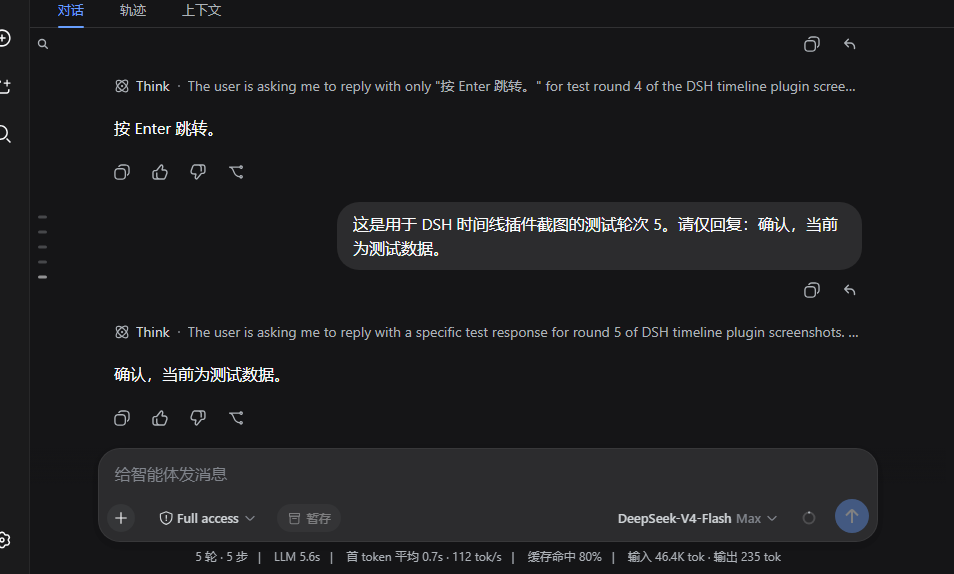
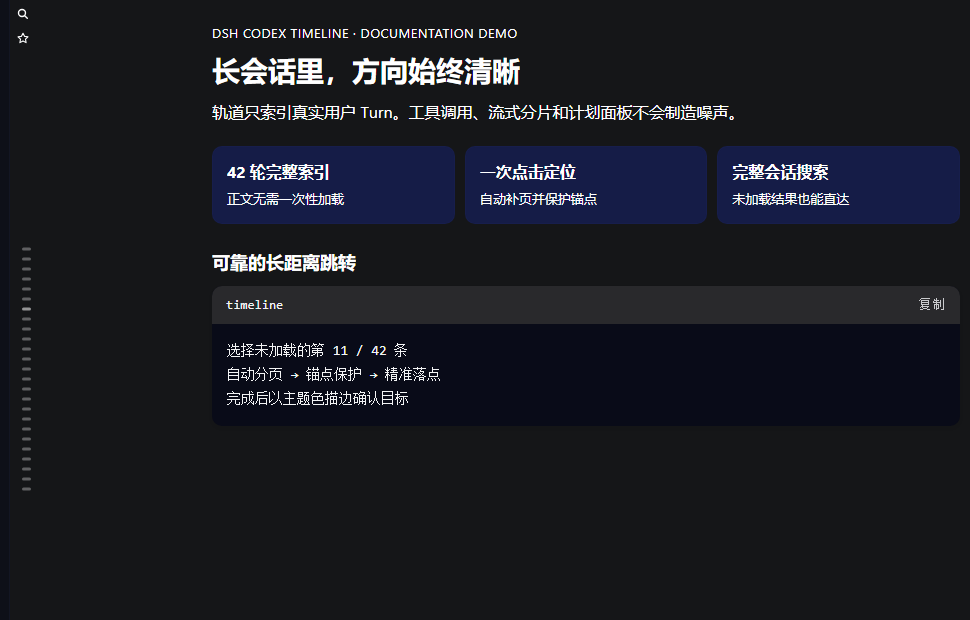
docs: refresh 0.5.0 readme and screenshots

diff --git a/README.en.md b/README.en.md
@@ -3,49 +3,49 @@
 English | [中文](README.md)
 
 <p align="center">
-  <img src="https://raw.githubusercontent.com/Wine-Red/dsh-codex-timeline/v0.2.0/docs/images/cover.png" width="960" alt="DSH Codex Timeline cover showing the turn rail, preview, and search" />
+  <img src="https://raw.githubusercontent.com/Wine-Red/dsh-codex-timeline/main/docs/images/cover.png" width="960" alt="DSH Codex Timeline cover showing the turn rail, preview, and search" />
 </p>
 
 [![CI](https://github.com/Wine-Red/dsh-codex-timeline/actions/workflows/ci.yml/badge.svg)](https://github.com/Wine-Red/dsh-codex-timeline/actions/workflows/ci.yml)
 [![npm](https://img.shields.io/npm/v/dsh-codex-timeline.svg)](https://www.npmjs.com/package/dsh-codex-timeline)
 [![license](https://img.shields.io/github/license/Wine-Red/dsh-codex-timeline.svg)](LICENSE)
 
-A subtle user-Turn navigation rail for the active DeepSeek Harness Web Chat transcript. It defaults to the left edge and can be mirrored to the right in settings; it highlights the Turn at the reading position, jumps between prompts, and browses the complete history index and previews.
+A subtle user-Turn navigation rail for long DeepSeek Harness Web conversations. It marks only the prompts that actually steer the session, then adds a complete history index, previews, search, and reliable jumps beside the transcript. It defaults to the left and can be mirrored completely to the right.
+
+## What's new in 0.5.0
+
+- **One selection really lands**: an unloaded Turn automatically chains the required history pages, protects the reading anchor, and verifies the final position.
+- **Edge guides are real targets**: both graded levels support hover previews, click, keyboard input, and the neighboring wave instead of acting as decoration.
+- **Motion shows direction without wasting time**: nearby targets scroll smoothly; distant targets arrive immediately and finish with a 180ms directional settle. Rapid wheel input retargets the current animation.
+- **A cleaner, dependable surface**: the redundant desktop paging ellipsis is gone, and preview cards stay above transcript tables and sticky code blocks.
 
 ## Interface tour
 
-The rail stays quiet by default: each loaded user Turn is one short dash, and only the current reading position is highlighted. On hover, nearby markers expand into a stepped shape for accurate selection, then return to their compact state when the pointer leaves.
+The two captures below come from the real browser surface of DSH `0.1.1-rc.2` and plugin `0.5.0`. To protect local conversations, the transcript, preview, metrics, and search semantics were replaced in the capture browser with dedicated documentation copy. A neutral dark surface removes any unrelated appearance plugin from the result.
+
+### Default: complete, but quiet
+
+The main index and both edge-guide levels remain low-contrast static dashes until activated. Search and favorites stay pinned above the track without reducing transcript width.
 
 <p align="center">
-  <img src="https://raw.githubusercontent.com/Wine-Red/dsh-codex-timeline/v0.2.0/docs/images/feature-preview.en.svg" width="960" alt="Turn preview and local search shown with test copy" />
+  <img src="https://raw.githubusercontent.com/Wine-Red/dsh-codex-timeline/main/docs/images/timeline-default-dsh.png" width="960" alt="The compact 0.5.0 timeline in DSH 0.1.1-rc.2, with search, favorites, and the complete static index" />
 </p>
 
-> Every prompt, answer, metric, and search result in the illustration and DSH captures below is dedicated test copy. No real conversation content is used.
+### Hover: preview, wave, and explicit depth
 
-Both images below were captured from DSH `0.1.0-rc.6` with this plugin installed. They show the same real rail in its compact and pointer-hover states:
+The selected marker expands to 39px while its three neighbors form a 30 / 21 / 15px wave. The preview exposes position, status, performance metrics, two prompt lines, and two answer lines, and remains above sticky transcript surfaces.
 
-<table>
-  <tr>
-    <th>Compact</th>
-    <th>Hover expansion</th>
-  </tr>
-  <tr>
-    <td align="center"><img src="https://raw.githubusercontent.com/Wine-Red/dsh-codex-timeline/v0.2.0/docs/images/timeline-default-dsh.png" width="460" alt="Compact Turn rail captured from DSH" /></td>
-    <td align="center"><img src="https://raw.githubusercontent.com/Wine-Red/dsh-codex-timeline/v0.2.0/docs/images/timeline-hover-dsh.png" width="460" alt="Hover-expanded Turn rail and test preview captured from DSH" /></td>
-  </tr>
-  <tr>
-    <td>Low contrast without reducing transcript width</td>
-    <td>Pointer-following highlight that restores the current Turn on leave</td>
-  </tr>
-</table>
-
-The feature illustration summarizes the real interaction: hovering reveals Turn position, status, duration, TTFT, throughput, prompt, and model-answer context. Search shows each keyword in context and jumps directly to the matching Turn.
+<p align="center">
+  <img src="https://raw.githubusercontent.com/Wine-Red/dsh-codex-timeline/main/docs/images/timeline-hover-dsh.png" width="960" alt="The hover-expanded 0.5.0 timeline in DSH 0.1.1-rc.2, showing the graded wave and top-layer preview" />
+</p>
 
 ### Typical flow
 
 1. Scroll the transcript and let the rail track the current Turn.
 2. Hover for two prompt lines and two answer lines; click or press Enter / Space to jump.
-3. The rail starts with the latest N Turns (25 by default, adjustable under Settings → Plugins → Plugin configuration) and can be moved to the right. Hovering reveals up to two graded markers outside each scrollable edge; they also support previews, click-to-jump, and the neighboring wave. Every mouse-wheel notch moves exactly one Turn with a short directional slide, without moving or resizing the rail.
+3. Select an unloaded Turn once. The plugin materializes only the required history, restores the reading anchor, and completes the jump.
+4. Wheel over the rail to move exactly one Turn per notch. At either boundary, scrolling returns naturally to the transcript.
+5. Use search, favorites, keyboard navigation, or settings for the visible Turn count and rail side when needed.
 
 ## Compatibility
 
@@ -104,19 +104,36 @@ Restart DSH Web to return to the built-in Conversation UI.
 
 ## Features
 
-- Creates one marker only for a real user Turn. Tool calls, approval UI, plan UI, subagents, and assistant streaming chunks do not create noisy markers.
-- Tracks the current viewport Turn without pulling a reader back to the bottom while output streams.
-- Expands nearby short bars into a stepped shape on hover and temporarily follows the pointer; leaving restores the viewport highlight.
-- Shows item x/y, time, status, two prompt lines, two model-answer lines, and real Turn duration, TTFT, and tok/s when available.
-- Supports click, Enter, and Space. Nearby materialized targets use a short smooth scroll; distant or paged jumps place the viewport at most 88px before the target and ease out over 180ms, preserving direction without flying through dozens of screens. Reduced-motion jumps remain immediate. The landing is verified and corrected after layout settles, then confirmed by an 800ms theme-aware target outline. Wheel, touch, or pointer input immediately hands control back to the reader and cancels stale motion. Arrow keys move one Turn, Page Up / Page Down move one window, and Home / End reach either boundary, with `focus-visible` and `prefers-reduced-motion` support.
-- Selecting an unloaded marker or complete-session search result automatically reuses the official DSH history loader. Before each prepend it records the first visible semantic row and exact pixel offset, keeps that anchor current if the reader moves during loading, and restores it during layout so the transcript does not jump or drift. The desktop rail no longer duplicates this path with a manual paging button.
-- The desktop rail uses a fixed window over the complete session index (the latest 25 Turns by default, adjustable from 5–50 without materializing transcript content). Hovering or focusing the track reveals up to two complete markers outside each scrollable edge; length, weight, and opacity distinguish near from far previews. These edge markers are interactive rather than decorative: they share the main markers' preview, click, Enter / Space, and arrow-key behavior, and activation joins them to the main rail through the same 39 / 30 / 21 / 15px wave. When inactive, they retain the existing 7px / 5px two-level faded appearance. Every coarse wheel notch moves exactly one Turn and slides the window and edge markers by one pitch in that direction; rapid bursts use a shorter transition that retargets from the current intermediate frame instead of snapping or queueing motion, while fine trackpad input accumulates before stepping. The rail's absolute position and full-marker count stay unchanged, and reduced-motion mode disables both slide and width transitions. At either boundary, scrolling naturally returns to the transcript; Ctrl/Command-wheel zoom and horizontal gestures are left untouched. Unloaded Turns come from the complete Host `lite=1` index and expose the same two-line hover summary. A click serially loads official history pages, shows lightweight page progress only after 300ms, and stops as soon as it lands or paging is confirmed stalled.
-- The rail defaults to the left. Enabling **Show on right** mirrors the desktop rail, stepped markers, preview cards, search panel, and narrow-screen trigger. Every popup opens inward toward the transcript, while a right-edge safety gap keeps the DSH scrollbar and native details resize boundary available instead of covering the Host panel.
-- Searches materialized transcript text locally and the complete persisted session log through the same-origin Host route `/codex-timeline/search`, merging both result sets with highlighted keyword context. An unloaded hit uses the same anchor-preserving, cancellable, verified paged jump. Deployments without a `sessionQuery` service degrade to loaded-content-only search.
-- Shows the timeline even for one or two user messages (it hides only when nothing is loaded and no earlier history exists), so navigation and search work from the first message.
-- Collapses on narrow screens without covering the composer or reducing message readability.
-- The settings page (Settings → Plugins → Plugin configuration) offers **Enable** and **Show on right** toggles plus four sliders (edge offset, center offset, marker spacing, turns shown); every preference is written through to the DSH settings document (settings.yaml) immediately and survives reloads and browser switches.
-- The collapsed-rail opener and search control stay anchored on the selected side; the edge-offset slider moves only the marker column inward toward the transcript.
+### Complete-session index
+
+- Creates markers only for real user Turns. Tool calls, approval UI, plan UI, subagents, and assistant streaming chunks do not add noise.
+- The Host `lite=1` index covers the complete persisted session without the former 500-Turn truncation, while transcript content remains on demand.
+- The desktop rail uses a fixed window (the latest 25 Turns by default, adjustable from 5–50) plus two complete guide levels at each scrollable edge.
+- Main and edge markers all support previews, click, Enter / Space, and arrow keys. Their inactive 7px / 5px guide lengths preserve the existing quiet appearance.
+- Each coarse wheel notch moves exactly one Turn. Bursts retarget the current intermediate frame, fine trackpad input accumulates, and boundary input returns to the transcript.
+
+### Reliable jumps
+
+- Nearby materialized targets scroll smoothly. Distant targets arrive at most 88px before the destination, then finish with a 180ms ease-out.
+- Unloaded markers and complete-session search results share DSH's official history loader. Paging is single-flight, with lightweight page progress appearing only after 300ms.
+- Before each prepend, the plugin captures the first visible semantic row and exact pixel offset. If the reader moves during loading, that anchor follows the reader and is restored after layout.
+- Landing is verified and corrected to within 2px, then confirmed by an 800ms theme-aware outline. Wheel, touch, or a new selection immediately cancels stale work.
+- Progress combines Chat order, the first materialized node, and registered DOM-anchor growth, avoiding false stalls when the Host projection Map stays stable.
+
+### Preview, search, and favorites
+
+- The preview shows item x/y, time, status, two prompt lines, two answer lines, and real Turn duration, TTFT, and tok/s when available.
+- Preview and branch/favorite actions stay above sticky transcript surfaces instead of being covered by code-block banners.
+- Search merges materialized transcript text with the complete persisted session log and highlights keyword context. An unloaded result is still a one-selection jump.
+- Deployments without a `sessionQuery` service degrade to loaded-content-only search without affecting timeline navigation.
+
+### Layout, keyboard, and settings
+
+- The active marker follows the viewport without dragging a reader back to the bottom while output streams. The rail also appears for one- and two-message sessions.
+- Arrow keys move one Turn, Page Up / Page Down move one window, and Home / End reach either boundary, with `focus-visible` and `prefers-reduced-motion` support.
+- **Show on right** mirrors the rail, edge guides, previews, search panel, and narrow-screen trigger while preserving the scrollbar and details resize boundary.
+- Narrow screens use a collapsed entry point. Desktop no longer duplicates automatic paging with a manual ellipsis.
+- Settings expose enable, side, edge offset, center offset, marker spacing, and Turns shown; preferences are persisted immediately to `settings.yaml`.
 
 ## Privacy
 
@@ -133,11 +150,11 @@ pnpm pack --pack-destination artifacts
 Validate a local tarball against a profile:
 
 ```powershell
-dsh plugin --profile web add ".\artifacts\dsh-codex-timeline-0.2.0.tgz"
+dsh plugin --profile web add ".\artifacts\dsh-codex-timeline-0.5.0.tgz"
 dsh --profile web --dump-config
 ```
 
-`lib/client.js` is the SHA-256-pinned compatibility artifact generated for rc.6. `scripts/prepare-dist.mjs` only normalizes package identity and local build paths; `scripts/verify-dist.mjs` checks its slot, observer, interaction, and hash contracts. `src/navigation-model.mjs` retains independently testable Turn projection and search logic. See [NOTICE](NOTICE) for upstream attribution.
+`lib/client.js` is the SHA-256-pinned compatibility artifact generated for DSH `0.1.1-rc.2`. `scripts/prepare-dist.mjs` only normalizes package identity and local build paths; `scripts/verify-dist.mjs` checks its slot, observer, interaction, and hash contracts. `src/navigation-model.mjs` retains independently testable Turn projection, rail-window, jump-policy, and search logic. See [NOTICE](NOTICE) for upstream attribution.
 
 ## Upgrade audit
 
@@ -163,4 +180,4 @@ If a capability changes, publish a separately verified adapter. Do not let this 
 
 ## License
 
-[MIT](LICENSE). The package contains an rc.6 compatibility adapter built from MIT-licensed DeepSeek Harness sources; see [NOTICE](NOTICE).
+[MIT](LICENSE). The package contains a `0.1.1-rc.2` compatibility adapter built from MIT-licensed DeepSeek Harness sources; see [NOTICE](NOTICE).

diff --git a/README.md b/README.md
@@ -3,49 +3,49 @@
 [English](README.en.md) | 中文
 
 <p align="center">
-  <img src="https://raw.githubusercontent.com/Wine-Red/dsh-codex-timeline/v0.2.0/docs/images/cover.png" width="960" alt="DSH Codex Timeline 封面：对话左侧的轮次轨道、预览和搜索" />
+  <img src="https://raw.githubusercontent.com/Wine-Red/dsh-codex-timeline/main/docs/images/cover.png" width="960" alt="DSH Codex Timeline 封面：对话左侧的轮次轨道、预览和搜索" />
 </p>
 
 [![CI](https://github.com/Wine-Red/dsh-codex-timeline/actions/workflows/ci.yml/badge.svg)](https://github.com/Wine-Red/dsh-codex-timeline/actions/workflows/ci.yml)
 [![npm](https://img.shields.io/npm/v/dsh-codex-timeline.svg)](https://www.npmjs.com/package/dsh-codex-timeline)
 [![license](https://img.shields.io/github/license/Wine-Red/dsh-codex-timeline.svg)](LICENSE)
 
-为 DeepSeek Harness Web 长会话提供一个低干扰的用户 Turn 导航轨道。它默认贴在 Chat 正文左侧，也可在设置中镜像到右侧；它只标记用户发起的轮次，能随正文滚动高亮、快速跳转，并浏览完整历史轮次与预览。
+为 DeepSeek Harness Web 长会话提供一个低干扰的用户 Turn 导航轨道。它只标记真正改变会话方向的用户轮次，在正文旁提供完整历史索引、预览、搜索和可靠跳转；默认位于左侧，也可以完整镜像到右侧。
+
+## 0.5.0 更新重点
+
+- **一次选择即可定位**：点击未加载轮次会自动连续补页、保护阅读锚点并校验最终落点，不再需要反复点击。
+- **边缘索引也是真实入口**：窗口外的两级视觉指引支持悬停预览、点击、键盘操作和邻近波动，不再只是装饰。
+- **动效有方向但不拖沓**：近距离平滑滚动，远距离快速抵达后用 180ms 收尾；滚轮连续操作可以从动画中途重新定向。
+- **更干净、更可靠的浮层**：桌面端移除重复的手动补页省略号；预览卡始终位于正文、表格和 sticky 代码块之上。
 
 ## 界面预览
 
-轨道默认保持安静：每个已加载的用户 Turn 对应一条短横，只有当前阅读位置高亮。鼠标移入后，附近标记以阶梯状展开，便于准确选择；移出后立即恢复紧凑状态。
+下面两图来自 DSH `0.1.1-rc.2` 与本插件 `0.5.0` 的真实浏览器界面。为避免暴露本地会话，正文、预览、指标和搜索语义均在截图浏览器中替换为专用测试文案；中性深色底仅用于排除其他外观插件的影响。
+
+### 默认：完整但安静
+
+未激活时，主索引与两级边缘指引保持低对比度静态短横；搜索和收藏固定在轨道顶部，不挤占正文宽度。
 
 <p align="center">
-  <img src="https://raw.githubusercontent.com/Wine-Red/dsh-codex-timeline/v0.2.0/docs/images/feature-preview.zh.svg" width="960" alt="使用测试文案展示轮次预览和本地搜索" />
+  <img src="https://raw.githubusercontent.com/Wine-Red/dsh-codex-timeline/main/docs/images/timeline-default-dsh.png" width="960" alt="DSH 0.1.1-rc.2 中的 0.5.0 默认时间线：搜索、收藏和完整静态索引" />
 </p>
 
-> 功能示意图与下方 DSH 实机截图中的提问、回答、指标和搜索结果均为专用测试文案，不包含真实会话内容。
+### 悬停：预览、波动与明确层级
 
-下方两图截取自安装本插件的 DSH `0.1.0-rc.6`，展示同一条真实轨道在默认和鼠标悬停时的状态：
+选中标记扩展为 39px，邻近三条依次形成 30 / 21 / 15px 波动；预览显示轮次、状态、性能指标、两行提问与两行回答，并保持在代码块等正文表面之上。
 
-<table>
-  <tr>
-    <th>默认状态</th>
-    <th>悬停展开</th>
-  </tr>
-  <tr>
-    <td align="center"><img src="https://raw.githubusercontent.com/Wine-Red/dsh-codex-timeline/v0.2.0/docs/images/timeline-default-dsh.png" width="460" alt="DSH 实机中的默认短横轮次轨道" /></td>
-    <td align="center"><img src="https://raw.githubusercontent.com/Wine-Red/dsh-codex-timeline/v0.2.0/docs/images/timeline-hover-dsh.png" width="460" alt="DSH 实机中悬停展开并显示测试预览的轮次轨道" /></td>
-  </tr>
-  <tr>
-    <td>低对比度，不占用正文宽度</td>
-    <td>高亮跟随指针，离开后恢复当前 Turn</td>
-  </tr>
-</table>
-
-功能图中的预览卡片对应实际交互：悬停可查看轮次、状态、耗时、首 token 时间、速度、提问与模型回答；搜索入口会直接展示关键词及其前后文，并可跳转到对应 Turn。
+<p align="center">
+  <img src="https://raw.githubusercontent.com/Wine-Red/dsh-codex-timeline/main/docs/images/timeline-hover-dsh.png" width="960" alt="DSH 0.1.1-rc.2 中的 0.5.0 悬停时间线：分级波动和顶层预览卡" />
+</p>
 
 ### 使用路径
 
 1. 滚动正文，轨道自动指示当前 Turn。
 2. 悬停查看两行提问与两行回答，点击或按 Enter / Space 跳转。
-3. 轨道默认列出最近 N 轮（默认 25，可在设置 → 插件 → 插件配置中调整），并可切换到右侧；将鼠标移入轨道会在可滚方向的边缘外看到最多两条分级索引，它们同样支持悬停预览、点击跳转和邻近波动。滚轮每格移动一轮，并以短距离位移动画呈现方向，轨道位置和完整显示条数始终不变。
+3. 对未加载的轮次直接点击一次；插件会自动补齐所需历史、恢复阅读锚点并完成定位。
+4. 在轨道上滚轮每格移动一轮；到达首尾后，滚动会自然交还正文。
+5. 需要时使用搜索、收藏、键盘导航，或在设置中调整显示轮数与左右位置。
 
 ## 兼容性
 
@@ -104,19 +104,36 @@ powershell -ExecutionPolicy Bypass -File .\uninstall.ps1
 
 ## 功能
 
-- 只为真实用户 Turn 建立标记；工具调用、计划确认、追问 UI、子代理和流式 assistant chunk 不增加噪声标记。
-- 当前项随 viewport 更新；用户向上阅读时，流式内容不会强制拉回底部。
-- 鼠标悬停时标记以短横阶梯展开并临时高亮；离开后恢复正文当前 Turn。
-- 浮层显示“第 x / y 条”、时间、状态、两行用户提问、两行模型回答，以及数据可得时的本轮用时、首 token 延迟和 tok/s。
-- 点击、Enter 或 Space 跳转；已在附近的目标使用短距离平滑滚动，远距离或补页后的目标会先快速抵达前方最多 88px，再用 180ms ease-out 完成收尾，避免跨几十屏“飞过”正文，也避免毫无方向感的硬切。减少动态效果模式仍会直接精准落点。到位后会校验并微调位置，再用 800ms 主题色描边确认目标；用户滚轮、触摸或指针操作会立即接管并取消旧跳转。方向键每次移动一轮，Page Up / Page Down 移动一屏，Home / End 到达首尾；支持 `focus-visible` 与 `prefers-reduced-motion`。
-- 点击未加载索引或完整会话搜索结果时，会自动复用 DSH 正式分页流程加载更早历史；每次 prepend 前保存首个可见消息的稳定锚点及像素偏移，加载期间若用户继续阅读会同步更新，DOM 提交后在 layout 阶段恢复，因此正文不会抖动或漂移。桌面轨道不再重复提供手动补页按钮。
-- 桌面轨道以固定窗口显示会话索引（默认最近 25 轮，可在设置中调整 5–50；无需加载正文）：悬停或键盘聚焦轨道时，每个可滚方向在窗口外显示最多两条完整索引，以长度、粗细和透明度形成由近及远的层级。这些边缘索引不是装饰：它们拥有与主索引相同的预览、点击、Enter / Space 和方向键能力，激活时以 39 / 30 / 21 / 15px 阶梯波动自然连接到主索引；未激活时仍保持原来的 7px / 5px 两级淡化静态样式。鼠标滚轮每格精确移动一轮，窗口与边缘索引沿方向平移一个间距；快速连续滚动会缩短过渡并从当前中间帧平滑转向新位置，避免停顿或动画排队，触控板小幅滚动则会先累积。轨道的绝对位置与完整标记数量均不改变，减少动态效果模式会关闭位移和宽度动画。到达首尾后滚动会自然交还正文，Ctrl/Command + 滚轮缩放和横向手势不会被拦截。未加载轮次由宿主 `lite=1` 全量索引提供，悬停同样显示两行摘要；点击会单路链式加载官方历史分页，超过 300ms 才显示轻量页数进度，定位完成或确认无进展后立即停止。
-- 轨道默认位于左侧；开启“显示在右侧”后，桌面轨道、阶梯标记、预览卡片、搜索面板和窄屏入口会完整镜像。所有浮层都朝正文内侧展开，右缘会避开 DSH 滚动条与原生详情栏拖拽边界，不覆盖右侧宿主面板。
-- 搜索按钮在浏览器本地检索已加载正文，同时通过宿主 `/codex-timeline/search` 路由检索完整持久化会话日志，合并展示并高亮关键词上下文；未加载的命中复用同一套带锚点保护、可取消、可验证的分页跳转。部署未挂载 `sessionQuery` 服务时自动退回仅已加载内容搜索。
-- 即使只有一两条用户消息也始终显示时间线（仅在没有任何已加载消息且无更早历史时隐藏），便于从小会话开始即使用导航与搜索。
-- 窄屏使用折叠入口，不遮挡消息、输入框或正文宽度。
-- 设置页（设置 → 插件 → 插件配置）提供启用、显示在右侧两个开关和四个滑块（距边缘距离、向中部偏移、标记间距、显示轮次数量）；所有偏好即时写入 DSH settings（settings.yaml），刷新、换浏览器均保持。
-- 折叠入口与搜索控件固定在所选一侧；距边缘滑块只把标记列向正文内侧移动，不改变控件位置。
+### 完整会话索引
+
+- 只为真实用户 Turn 建立标记；工具调用、计划确认、追问 UI、子代理和流式 assistant chunk 不增加噪声。
+- 宿主 `lite=1` 索引覆盖完整持久化会话，不再截断 500 轮；正文仍只按需加载。
+- 桌面轨道显示固定窗口（默认最近 25 轮，可调 5–50），每个可滚方向额外保留两级完整边缘指引。
+- 主索引与边缘指引都支持预览、点击、Enter / Space 和方向键；未激活时保持 7px / 5px 的低干扰静态样式。
+- 鼠标滚轮每格精确移动一轮；连续滚动会从当前动画中间帧重新定向，触控板小幅输入会先累积，到达边界后把滚动交还正文。
+
+### 可靠跳转
+
+- 已加载且距离较近的目标使用短距离平滑滚动；远距离目标先快速抵达前方最多 88px，再以 180ms ease-out 收尾。
+- 未加载索引和完整会话搜索结果共用 DSH 正式分页流程；整个过程单路执行，超过 300ms 才显示轻量页数进度。
+- 每次 prepend 前记录首个可见语义行和像素偏移；加载期间如果继续阅读，锚点会随用户更新，DOM 提交后再恢复。
+- 到位后校验并微调到 2px 内，以 800ms 主题色描边确认目标；滚轮、触摸或新选择会立即取消旧跳转。
+- 分页以 Chat 顺序、首节点和已注册 DOM 锚点共同判断进展，避免宿主投影 Map 不增长时误判停滞。
+
+### 预览、搜索与收藏
+
+- 预览卡显示“第 x / y 条”、时间、状态、两行提问、两行回答，以及可用时的本轮用时、首 token 延迟和 tok/s。
+- 预览卡和其中的分支、收藏操作保持在正文 sticky 表面之上，不会再被代码块标题遮挡。
+- 搜索同时覆盖已加载正文与完整持久化会话日志，合并并高亮关键词上下文；未加载命中也能一次选择直达。
+- 部署未挂载 `sessionQuery` 服务时自动退回仅搜索已加载内容，不影响时间线导航。
+
+### 布局、键盘与设置
+
+- 当前项随 viewport 更新；用户向上阅读时，流式内容不会强制拉回底部。即使只有一两条用户消息也会显示时间线。
+- 方向键移动一轮，Page Up / Page Down 移动一屏，Home / End 到达首尾；支持 `focus-visible` 和 `prefers-reduced-motion`。
+- 开启“显示在右侧”后，轨道、边缘指引、预览、搜索面板和窄屏入口完整镜像，并避开滚动条与详情栏拖拽边界。
+- 窄屏使用折叠入口；桌面端不再显示重复的手动补页省略号，点击未加载索引时自动补页。
+- 设置页提供启用、显示在右侧，以及距边缘距离、向中部偏移、标记间距、显示轮次数量；偏好即时写入 `settings.yaml`。
 
 ## 隐私
 
@@ -133,11 +150,11 @@ pnpm pack --pack-destination artifacts
 安装本地 tarball做 profile 契约验证：
 
 ```powershell
-dsh plugin --profile web add ".\artifacts\dsh-codex-timeline-0.2.0.tgz"
+dsh plugin --profile web add ".\artifacts\dsh-codex-timeline-0.5.0.tgz"
 dsh --profile web --dump-config
 ```
 
-`lib/client.js` 是为 rc.6 生成并锁定 SHA-256 的 compatibility artifact；`scripts/prepare-dist.mjs` 只做包名与构建路径标准化，`scripts/verify-dist.mjs` 检查其 slot、observer、交互与哈希契约。`src/navigation-model.mjs` 保留可独立测试的 Turn 投影与搜索逻辑。上游衍生代码的许可见 [NOTICE](NOTICE)。
+`lib/client.js` 是为 DSH `0.1.1-rc.2` 生成并锁定 SHA-256 的 compatibility artifact；`scripts/prepare-dist.mjs` 只做包名与构建路径标准化，`scripts/verify-dist.mjs` 检查其 slot、observer、交互与哈希契约。`src/navigation-model.mjs` 保留可独立测试的 Turn 投影、轨道窗口、跳转策略与搜索逻辑。上游衍生代码的许可见 [NOTICE](NOTICE)。
 
 ## 升级检查
 
@@ -163,4 +180,4 @@ pnpm run test
 
 ## 许可证
 
-[MIT](LICENSE)。本包含有基于 DeepSeek Harness MIT 源码构建的 rc.6 compatibility adapter，详见 [NOTICE](NOTICE)。
+[MIT](LICENSE)。本包包含基于 DeepSeek Harness MIT 源码构建的 `0.1.1-rc.2` compatibility adapter，详见 [NOTICE](NOTICE)。
